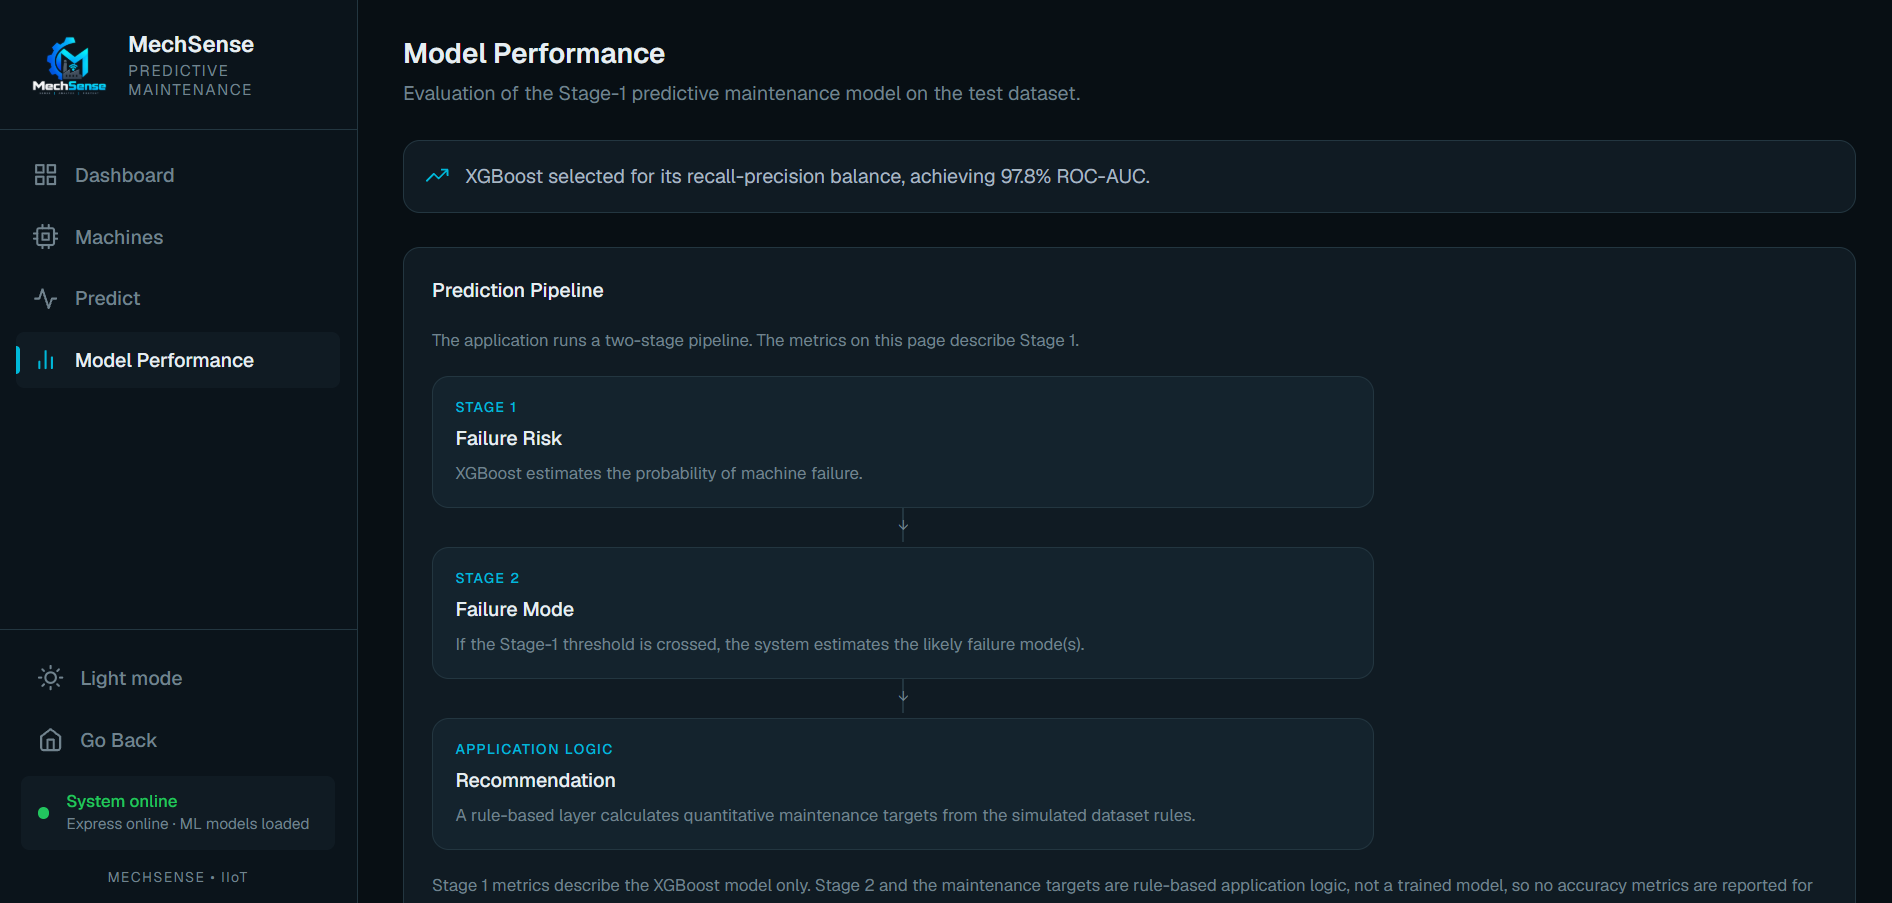
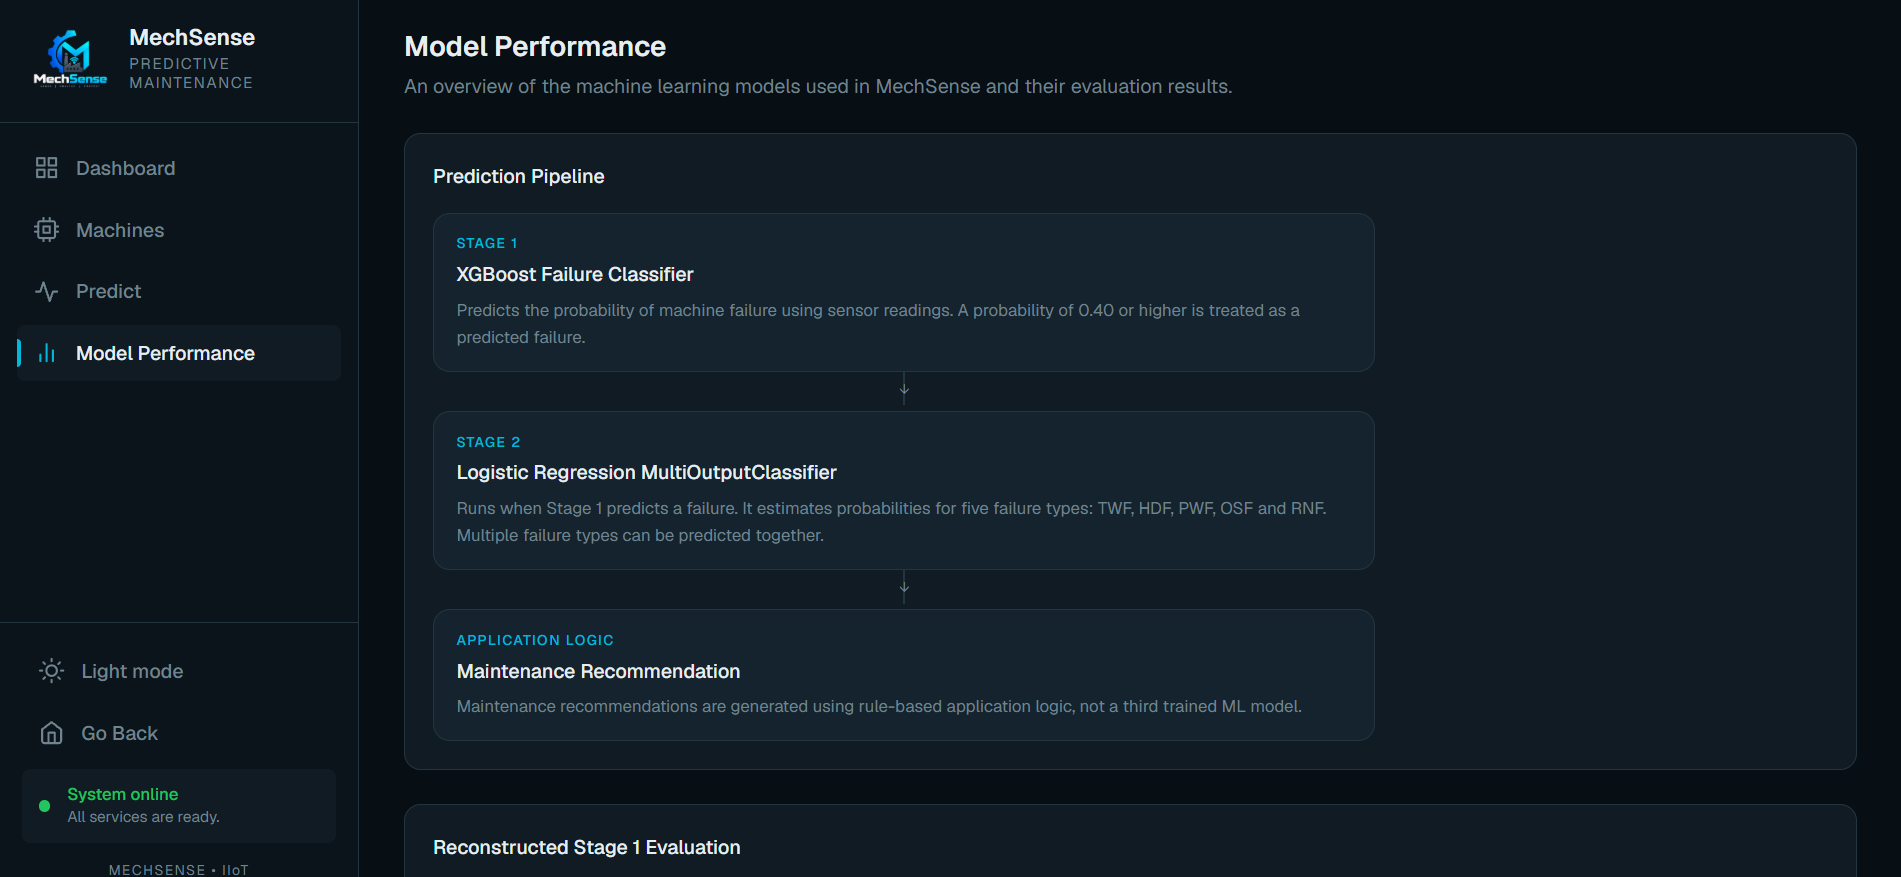
fix: fix minor issues

diff --git a/frontend/src/pages/Predict.jsx b/frontend/src/pages/Predict.jsx
@@ -226,13 +226,15 @@ function Predict() {
                 <div className="mt-4 flex items-start gap-2 rounded-md border border-status-danger/30 bg-status-danger/10 px-3 py-2 text-xs text-status-danger">
                   <FiAlertTriangle className="mt-0.5 shrink-0" />
                   {typeof error === "string" ? (
-                    <p className="min-w-0 break-words">{error}</p>
+                    <p className="min-w-0 wrap-break-word">{error}</p>
                   ) : (
                     <div className="min-w-0 space-y-1">
-                      <p className="font-semibold break-words">{error.title}</p>
-                      <p className="break-words">{error.message}</p>
+                      <p className="font-semibold wrap-break-word">
+                        {error.title}
+                      </p>
+                      <p className="wrap-break-word">{error.message}</p>
                       {error.helper && (
-                        <p className="break-words text-status-danger/80">
+                        <p className="wrap-break-word text-status-danger/80">
                           {error.helper}
                         </p>
                       )}

diff --git a/frontend/src/components/machines/SensorComparison.jsx b/frontend/src/components/machines/SensorComparison.jsx
@@ -86,7 +86,7 @@ function SensorComparison({ machine }) {
       )}
 
       <div className="overflow-x-auto">
-        <table className="w-full min-w-[560px] text-sm">
+        <table className="w-full min-w-140 text-sm">
           <thead className="border-b border-border-subtle bg-bg-card-elevated/50">
             <tr>
               <th className="px-4 py-3 text-left text-xs font-medium uppercase tracking-wider text-text-secondary">
